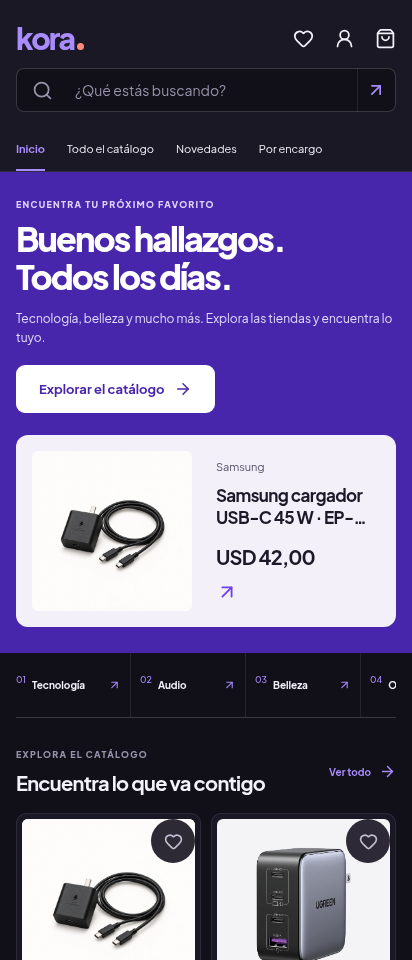
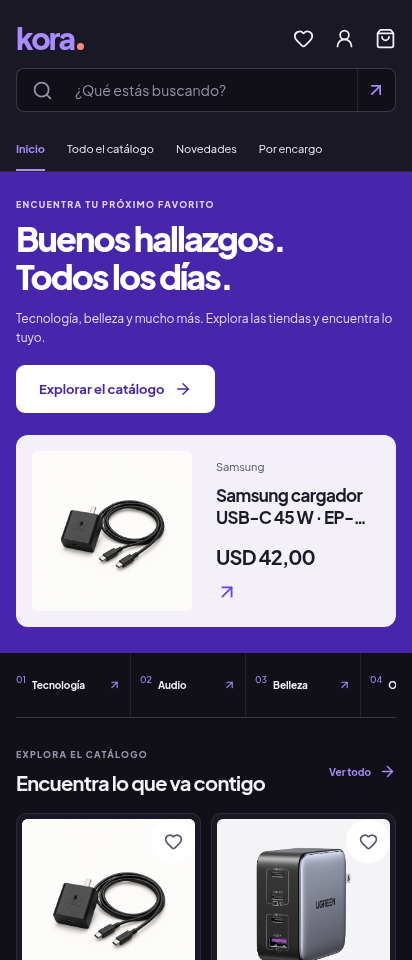
Entrega primera web comprador conectada y validada
Inicio editorial, catálogo y ficha SSR, cuenta, favoritos y carrito reales. 12 UI en build producción final, 52 core, tipos/lint monorepo y revisión independiente. Next16.4.1, guard release que excluye imágenes de exhibición y rechaza restos de dev al iniciar. Documentación y14 capturas originales. Checkout web y hosting público quedan como siguiente incremento; sin cambios Android, panel, backend o finanzas.

Changed region(s): [[0.8447, 0.8438, 0.9612, 0.9062], [0.3495, 0.8438, 0.466, 0.9062]]

diff --git a/tests/app-e2e/storefront/storefront.spec.ts b/tests/app-e2e/storefront/storefront.spec.ts
@@ -56,7 +56,9 @@ test('búsqueda, filtros, orden y paginación mantienen URL compartible', async 
   expect(nums).toEqual([...nums].sort((a, b) => a - b));
   await page.goto('/buscar?availability=on_order');
   await expect(page.getByTestId('product-card').first()).toBeVisible();
-  expect((await page.locator('.availability:visible').allTextContents()).every((t) => t === 'Por encargo')).toBe(true);
+  await expect(page.locator('.product-card:visible .availability').filter({ hasText: /^Por encargo$/ })).toHaveCount(
+    await page.locator('.product-card:visible').count(),
+  );
   await page.goto('/buscar');
   await page.getByRole('link', { name: 'Siguiente' }).click();
   await expect(page).toHaveURL(/page=2/);

diff --git a/apps/storefront/src/app/globals.css b/apps/storefront/src/app/globals.css
@@ -1516,3 +1516,11 @@ legend {
     padding-block: 26px;
   }
 }
+/* Photo actions keep a quiet, light backing in both themes, rather than a dark disc over the product. */
+.product-card .favorite {
+  background: rgba(255, 255, 255, 0.94);
+  color: #55516a;
+}
+.product-card .favorite[aria-pressed='true'] {
+  color: #6d42e8;
+}

diff --git a/docs/WEB_COMPRADOR.md b/docs/WEB_COMPRADOR.md
@@ -1,0 +1,96 @@
+# Web comprador de HAYAZGO · primera entrega
+
+**30 de octubre de 2026.** Implementación real dentro del mismo monorepo, no maqueta. Nueva aplicación `apps/storefront`, Next.js16.4.1; comparte API, reglas y tokens con Android y panel. Marca provisional tomada de `config/brand.json` (actualmente Kora); no se ha iniciado un cambio de nombre.
+
+## Qué funciona
+
+- **Inicio:** editorial Electric Violet, producto con foto/precio/destino real, categorías, comparación inicial, colecciones y tiendas de `home_feed`. Portada finita; muestra acotada de tiendas. No inventa promociones o testimonios.
+- **Buscar:** búsqueda, categoría, colección, tienda, disponibilidad, rango de precios, orden y paginación. Parámetros en URL, enlaces compartibles y regreso con contexto. Escritorio con filtros laterales; móvil los pliega y muestra cuántos están activos. El backend usa **slugs** para categoría/tienda/colección.
+- **Ficha `/p/[slug]`:** fotografías, variantes activas, precio por variante, cantidad, disponibilidad, descripción, vendedor, relacionados y agregar al carrito. Selecciona inicialmente una variante con existencias; diferencia opción agotada. El servidor valida existencias/importe al agregar.
+- **Cuenta:** login real de Supabase con la cuenta existente, cierre de sesión y regreso seguro al destino interno. La misma cuenta sirve en app y web, pero la sesión de cada dispositivo/origen es independiente.
+- **Favoritos:** guardar/quitar y consultar lo persistido en backend; reintento ante error. Se ven desde otro navegador o la app con la misma cuenta.
+- **Carrito:** carga por RPC, cantidades, eliminación confirmada, errores recuperables e importe de líneas/subtotal calculados por servidor. Persiste al recargar y en otro navegador. No calcula precios o tasas en el cliente.
+- Carga de consultas privadas, vacío, error/reintento,404 real para ficha inexistente, teclado/foco, movimiento reducido y adaptación320/412/escritorio. Catálogo y ficha públicos llegan en HTML aun sin JS.
+
+**No es todavía la web comercial completa.** Checkout/pago/pedidos web, direcciones, registro/recuperación y herramientas de vendedor siguen siendo incrementos posteriores. El carrito explica que se puede continuar la compra en la app con la misma cuenta; no hay botón que finja finalizar la compra web. Esta entrega no modifica ni publica Android.
+
+## Arquitectura y aislamiento
+
+| Pieza | Responsabilidad |
+|---|---|
+| `apps/storefront` ·3200 | Web de compradores |
+| `apps/admin` ·3100 | Panel existente, separado |
+| `apps/mobile` | Android/Expo existente |
+| `packages/api`, `core`, `design-tokens` | Contratos RPC, reglas compartidas y lenguaje visual |
+| Supabase Marketplace | Catálogo, cuentas, favoritos, carrito y autorización real por RLS |
+
+SSR crea un cliente **anónimo nuevo por lectura**, sin cookies/tokens del navegador y sin caché de respuestas privadas. Reutiliza `createKoraClient`, incluido el rechazo de service role. Sesión sólo en navegador; cachés privadas con identidad y limpieza al cambiar cuenta, ficha/controles aislados por producto+comprador. Login rechaza destinos externos, `//` y barras inversas. El frontend nunca concede permisos. No se ha cambiado RLS, SQL, datos remotos, pagos ni reglas comerciales.
+
+## Imágenes
+
+Se reutiliza el registro y los archivos de exhibición de la app mediante `tools/storefront/prepare-assets.mjs`, sin importar React Native ni duplicar asociaciones manuales. Verifica SHA256 y conserva producto+originalPath+variante+`is_demo`, procedencia y avisos bajo demanda. Son **las imágenes de exhibición ya usadas en la app**, incluidas generaciones y referencias de fabricante; no se ha acreditado un catálogo fotográfico comercial definitivo ni licencias nuevas.
+
+Opt-in `STOREFRONT_PRIVATE_PREVIEW=1`, sólo desarrollo loopback y backend aprobado (local54321 o Marketplace `mimnotafmfasvwrclxan`). No alias por parecido entre IDs locales y remotos. Algunas fixtures locales antiguas tienen identidad distinta y conservan sus imágenes; por ello las capturas fotográficas finales se hicieron con el Marketplace correcto, **anónimo y sólo lectura**. Todas las operaciones de cuenta/favoritos/carrito se probaron exclusivamente contra backend local.
+
+`build` ejecuta preparador **`--release`**, que retira archivos y metadata de exhibición independientemente de `.env.local`. `verify:release` exige registro vacío, ausencia de carpeta pública y ausencia de referencias en bundles servidor/cliente. `start` exige primero esta verificación: se comprobó que rechaza iniciar con recursos privados sobrantes de desarrollo. `typecheck` sólo asegura tipos de un registro inicial vacío si falta; no regenera recursos ni contamina builds. No publicar el servidor de desarrollo: `noindex` evita indexación, **no es control de acceso**.
+
+## Ejecutar y probar
+
+Desde la raíz, con las dependencias del workspace:
+
+```bash
+pnpm install --frozen-lockfile
+cp apps/storefront/.env.example apps/storefront/.env.local
+# Configurar URL y anon pública del backend elegido en ese archivo ignorado.
+# Nunca usar service_role, token de gestión, contraseñas o credenciales de proveedores.
+pnpm --filter @kora/storefront dev
+# http://127.0.0.1:3200
+```
+
+Para conectar al Marketplace de la app: usar las **dos variables públicas** de `apps/mobile/eas.json` → `build.preview.env`, como `NEXT_PUBLIC_SUPABASE_URL` y `NEXT_PUBLIC_SUPABASE_ANON_KEY`; no hace falta acceso administrativo. El proyecto prohibido nunca se utiliza. El opt-in de imágenes es únicamente para evaluación local. En esta nube Node24 requiere `NODE_USE_ENV_PROXY=1` para SSR remoto; conservar proxy y CA, sin desactivar TLS. No es una exigencia del hosting normal.
+
+Pruebas mutadoras **sólo local**:
+
+```bash
+pnpm stack:start             # no resetear si ya hay una base local en uso
+# .env.local del storefront debe usar el gateway local y su anon de .local/keys.env.
+pnpm --filter @kora/storefront build
+pnpm --filter @kora/storefront verify:release
+pnpm --filter @kora/storefront start
+# En otra terminal:
+PW_CHROMIUM_PATH=/usr/bin/chromium pnpm test:storefront
+```
+
+`PW_CHROMIUM_PATH` sólo si hace falta seleccionar un Chromium instalado. La suite aborta peticiones del contexto principal hacia el Marketplace compartido; los fixtures rechazan DB no local. No ejecutar pruebas de compra sobre el backend remoto.
+
+## Evidencia y control de calidad
+
+[Capturas originales y manifiesto](capturas/web-comprador-2026-10-30/manifest.json):14PNG del catálogo real anónimo, Inicio1440/412/320 y Buscar/ficha1440/320, ambos temas. No son pruebas Android ni fotos físicas. Al ser una web nueva no existe un «antes» equivalente: no se fabricó comparación. Primera fila de comparación en Inicio: y739,7 en1440;813,3 en412;832,3 en320; viewport960 de alto. La apertura ya contiene un producto/precio navegable antes del catálogo. Es una primera base, no una promesa de conversión.
+
+- Especialista de arquitectura de sólo lectura: recomendó web Next separada, SSR público, API/RLS compartidos y no trasladar la SPA de pruebas como web definitiva.
+- Auditor independiente: ronda1 **CAMBIOS OBLIGATORIOS** por exclusión release insuficiente, fotos comprobadas contra fixtures equivocadas y altura/categorías. Corregido con release explícito, evaluación con Marketplace correcto y tira móvil64px/desktop integrada.
+- Ronda2 **APROBADO para incremento local**:12capturas y12navegaciones de categorías/tiendas/colecciones, sin desbordamientos ni erroresJS. Revisó aislamiento, variantes, `Object.hasOwn`, reintento de favoritos y fuentes. Cierre focalizado verificó compactación y Next16.4.1 sin overlay de desarrollo. No sustituye revisión de Oliver ni autoriza un lanzamiento público.
+- Se consultaron el enrutador Product Design y la skill `oliver-design-direction`; implementación basada en la direcciónC existente, no una nueva ideación ni una auditoría Product Design ficticia. Reglas aplicadas: densidad contextual, jerarquía comercial, complejidad progresiva, fotos protagonistas y teclado/reflow reales.
+
+## Pruebas finales ejecutadas
+
+| Verificación | Resultado y entorno |
+|---|---|
+| UI específicas | **12/12** dev y **12/12** buildproducción final; misma suite, no24casos distintos |
+| Persistencia | SQL local + segundo contexto de navegador, favoritos/carrito; cierre/cambio de cuenta |
+| Errores | Transporte abortado al agregar no muestra éxito; reintento persiste; vacío y404 tienen salida |
+| Adaptación |320/412/1440 claro/oscuro, sin overflow/JSerror; teclado y movimiento reducido |
+| SSR | Inicio/ficha visibles sinJS y404 de recurso inexistente |
+| Monorepo | `pnpm typecheck`, `pnpm lint`,52core aprobados |
+| Build/aislamiento | Next16.4.1 compila; `verify:release` aprueba vacío y también después de tipos; `start` rechaza92registros privados |
+| Revisión visual |14PNG originales finales archivados; revisión independiente12capturas/12recorridos y cierre móvil |
+
+Logs ignorados en `.local/storefront-20261030/`: `tests-release-final.log`(12/12), `build-final-photo-action.log`, `typecheck-final-all.log`, `lint-final-all.log`, `core.log`, `release-final.log` y `guard-negative.log`. Las capturas de datos remotos no son prueba de mutaciones remotas. No se verificó este sitio en navegador físico del Samsung ni se instaló otra app.
+
+## Seguridad y lanzamiento
+
+Se detectaron tres avisos Next16.4.0 (GHSA-2464-fhr4-w9xw, GHSA-p3m5-59mp-jv5r, GHSA-673q-mjm6-r5xr). Parche aplicado **sólo a storefront**, Next/eslint-config-next16.4.1. `pnpm audit --prod` posterior ya atribuye esos avisos exclusivamente al panel previo `apps__admin>next`, no a esta web. No afirmar que todo el workspace carece de advisories; el panel requiere su parche separado y pruebas propias antes de otro despliegue suyo.
+
+Esta entrega no tiene hosting público ni dominio oficial. El entorno cloud sirve para desarrollar; el lanzamiento requiere alojamiento Next permanente y HTTPS, dominio, redirects de Auth, revisión de sesiones/políticas/CSP, contenido comercial/fotos con derechos y protección de cualquier URL privada de evaluación. No utilizar por accidente el workflow de despliegue del panel. `noindex` permanece activo; habilitar indexación/metadata canónica/sitemap sólo al preparar lanzamiento aprobado.
+
+**Próxima intervención exacta:** checkout web progresivo, reutilizando RPC `checkout_preview`/`place_order`, direcciones y opciones reales, idempotencia y recuperación de la confirmación ya corregida en móvil. Luego Pago con cotización y estado de verificación reales y Mis pedidos; antes de la web pública cerrar registro/recuperación, SEO y despliegue protegido. Sin cálculos de cliente ni gastos/compras remotos de prueba.

diff --git a/docs/ESTADO_ACTUAL.md b/docs/ESTADO_ACTUAL.md
@@ -4,11 +4,15 @@
 > cerrar un módulo y antes de ceder el turno). Si algo de aquí no coincide con el repositorio o con los
 > servicios, gana lo que compruebes y corriges este archivo.
 
-## Trabajo en curso · web comprador, 30 de octubre
+## Web comprador · primera entrega terminada, 30 de octubre
 
-Oliver autorizó construir la web integrada. Nueva pieza `apps/storefront` (Next16, puerto3200), separada del panel y de Expo, comparte `@kora/api`, `@kora/core` y tokens. Primera entrega: Inicio editorial, Buscar con URL/filtros/paginación, fichas por slug con variantes, login de la misma cuenta, favoritos y carrito por RPC reales. Catálogo público SSR anónimo por petición, privado sólo navegador/RLS. Checkout web/registro/recuperación aún fuera de este incremento; carrito explica continuación en app, sin CTA ficticia. No confundir web local con sitio publicado ni sesión compartida automáticamente entre dispositivos.
+Oliver autorizó comenzar la web integrada. `apps/storefront` Next16.4.1, puerto3200, separada de panel/Expo; comparte API/core/tokens/backend. InicioC web, Buscar con URL/filtros/paginación, fichas/variantes, login de misma cuenta, favoritos y carrito por RPC persistidos. Sesión por dispositivo/origen independiente; SSR público anónimo por petición y caché privada aislada por comprador. [Guía y límites](WEB_COMPRADOR.md).
 
-Checkpoint2: 12/12 UI locales aprobadas (sesión real, SQL y segundo navegador, filtros, estados/errores, SSR sinJS y404, teclado/320/412/1440 ambos temas). Auditor independiente rechazó y revisó correcciones; APROBADO para incremento local. Capturas con Marketplace anónimo read-only, sin operaciones remotas. Next de storefront corregido16.4.0→16.4.1 por tres avisos de seguridad; audit ya los atribuye únicamente al panel anterior, no a esta web. Falta build/exclusión release y repetir12 UI en producción local. Adaptador local reutiliza manifest/recursos existentes con identidad/ruta/variante/is_demo y SHA; sólo backend local54321 o Marketplace aprobado y opt-in, desarrollo ligado127.0.0.1. Build producción retira fotos/metadata de exhibición. Nada de Android, OTA, panel, backend remoto, SQL o finanzas modificado. **Próxima acción:** terminar pruebas UI/aislamiento y capturas320/412/escritorio claro/oscuro, revisión independiente, build y documentación `WEB_COMPRADOR.md`. No publicar sitio público en este bloque.
+**Validación final:**12/12 UI de build producción (también12/12dev),52unitariascore, tipos/lint monorepo y build aprobados. Estado/error,404, SSRsinJS, teclado/movimiento reducido,320/412/1440 claro/oscuro y persistencia SQL+segundo navegador. Auditor independiente2rondas: CAMBIOS OBLIGATORIOS corregidos → APROBADO para incremento local;14PNG originales ySHA archivados. Catálogo Marketplace observado sólo anónimo/lectura, operaciones mutadoras sólo stack local. No cambios de Supabase, Android/OTA, finanzas o panel.
+
+**Fotos/seguridad:** adaptador reutiliza recursos existentes poridentidad/ruta/variante/is_demo yhash; opt-in sólo desarrollo loopback/backend aprobado. Buildrelease excluye registro/archivos/referencias comprobados; tipos no regeneran assets; `start` exige verificación y rechaza recursos privados sobrantes. Next storefront parcheado16.4.1; tres advisories previos sólo permanecen en panel anterior, bloque separado. No hosting público. Servidor de evaluación local puede usar Marketplace con Nodeproxy y opt-in; antes de suite mutadora volver a `.env.local` del backend local. Recursos de desarrollo no son un artefacto de distribución.
+
+**Próxima acción exacta:** implementar checkout web progresivo reutilizando checkout_preview/place_order, direcciones/opciones reales e idempotencia/recuperación existentes; después Pago/Mis pedidos. Registro/recuperación, SEO y alojamiento protegido/HTTPS pendientes para lanzamiento. El carrito actual explica continuación en la app; no botón de compra web ficticio. No rehacer storefront ni rediagnosticar backend.
 
 ## Corrección publicada · confirmación de compra, 29 de octubre
 

diff --git a/docs/HISTORIAL_AGENTES.md b/docs/HISTORIAL_AGENTES.md
@@ -392,6 +392,15 @@ Publicación real: EAS40051620927 Success/fuente7f4c556; guardAPK5 Success01:51:
 - Último commit: `<hash>`.
 ```
 
+## 30 de octubre de 2026 · Web comprador, primera implementación
+
+- Oliver autorizó comenzar web en el mismo entorno. Rama sincronizada, raíz único integrador; especialista de arquitectura y auditor independiente sólo lectura/pruebas ignoradas.
+- `apps/storefront` Next separado: InicioC adaptado web, Buscar URL/filtros/contexto, fichas, Supabase login/cierre, favoritos y carrito reales. Comparte API/core/tokens; SSR público anónimo por petición y caché/controles privados aislados por comprador. Sin checkout web ficticio: continuación en app explícita.
+- Checkpoints `444a516` y `55c3d3a` con push. Auditor ronda1 CAMBIOS OBLIGATORIOS (release sin exclusión explícita, imágenes con fixtures de identidad distinta, categorías/altura); corregidos. Ronda2 APROBADO para incremento local,12capturas/12recorridos y cierre320claro/oscuro.14PNG originales finales conSHA en `docs/capturas/web-comprador-2026-10-30`.
+- Lectura de catálogo Marketplace real sólo anónima; mutaciones de prueba sólo local.12UI dev y12UI del buildproducción final,52core, tipos/lint monorepo y build aprobados; release sinregistro/archivos/referencias y bloqueo de start ante restos de desarrollo comprobados. Favorito discreto sobre foto en ambos temas. Primer intento de producción11/12 por assertion que confundía disponibilidad con badge de muestra; se corrigió el selector conservando el badge.
+- Next16.4.0 mostró tres avisos críticos/alto; parche preciso a16.4.1 sólo storefront, sin upgrade general. Auditoría posterior los conserva sólo en panel anterior. Buildrelease verifica ausencia de archivos/metadata/referencias de exhibición. Tipos dejaron de regenerar assets para evitar contaminar una compilación concurrente; build se repitió en secuencia.
+- Sin cambios en Android/OTA, nativo/iOS, backend remoto, SQL o reglas financieras. Sin hosting público. Próximo: checkout web progresivo con RPC/idempotencia/recuperación existentes, después Pago/Mis pedidos y preparación de despliegue protegido. [Guía](WEB_COMPRADOR.md).
+
 ## Relevos
 
 ### 2026-10-11 18:51Z · Codex cloud · Oliver · preview publicado y checkpoint validación Android

diff --git a/docs/PENDIENTES.md b/docs/PENDIENTES.md
@@ -1,5 +1,13 @@
 # Pendientes de Kora
 
+## WEB-COMPRADOR · primer incremento y siguiente bloque, 30oct2026
+
+**Primera base desarrollada** en `apps/storefront`, backend/API/core/tokens compartidos, separada de Android/panel. Inicio/Buscar/ficha SSR, login real, favoritos y carrito persistidos por RPC; pruebas de mutación sólo local y capturas Marketplace sólo lectura. Ver [WEB_COMPRADOR.md](WEB_COMPRADOR.md). No repetir creación de proyecto ni traslado de datos. Sin hosting público ni OTA de este bloque.
+
+**Próxima tarea exacta:** checkout web progresivo (dirección/entrega → plan → revisión, orden conforme reglasUX ya aplicadas), `checkout_preview`/`place_order` y recuperación/idempotencia de confirmación existente; después Pago y Mis pedidos. Mantener estados de anticipo/cuotas y precios/tasas calculados sólo por servidor. Registro/recuperación, SEO de lanzamiento y alojamiento HTTPS con acceso protegido son dependencias de publicación pública. No confundir `noindex` con privacidad; recursos de exhibición no van al buildrelease.
+
+**Seguridad acotada:** storefront ya usa Next/eslint-config-next16.4.1 para tres avisos sobre16.4.0. Auditoría posterior sigue señalando `apps__admin>next`; parche del panel anterior requiere su bloque separado/pruebas antes de volver a desplegar ese panel. No cambiarlo automáticamente en esta entrega web.
+
 ## Compra · 29oct2026
 
 - Reporte de blanco al finalizar en Samsung: se corrigió la pérdida de continuidad por respuesta perdida y la navegación con resultado incompleto. 42 UI finales/11 unitarias/52 core, tipos/lint/Hermes y auditoría independiente aprobados; OTA preview EAS40999854509 publicada con guard APK5; ID `01a18af2-bd5c-7ec1-9e59-9b458a7e11f0`. Observación EAS41000103125 confirma última compatible; validación Samsung pendiente. [Detalle](CORRECCION_CONFIRMACION_COMPRA_2026-10-29.md). No afirmar reproducción literal o recepción nativa.

diff --git a/docs/ARQUITECTURA.md b/docs/ARQUITECTURA.md
@@ -6,6 +6,7 @@
 |---|---|---|
 | Monorepo | pnpm 10.28, Node 22, TypeScript 5.9 (la app, 6.0), vitest 3 | raíz (`apps/*`, `packages/*`, `tests/*`, `tools/*`) |
 | App móvil (compradores + Mi tienda) | Expo SDK 57, React Native 0.86, expo-router, React Query 5, Reanimated 4 | `apps/mobile` (también exporta a web para las pruebas) |
+| Web de compradores | Next.js16.4.1, SSR público y sesión cliente, API/core/tokens compartidos | `apps/storefront` (puerto3200; Inicio, Buscar, ficha, Cuenta, Favoritos y Carrito). [Alcance](WEB_COMPRADOR.md) |
 | Panel web (admin + vendedor) | Next.js 16 (App Router), Tailwind v4, React Query | `apps/admin` (puerto 3100; `/admin` y `/vendedor`) |
 | Backend | Supabase: Postgres, Auth (GoTrue), PostgREST, Storage, Edge Functions (Deno) | `supabase/migrations`, `supabase/functions` |
 | Lógica compartida | dinero exacto, planes, tasas, pagos, sesión, errores en español, importador | `packages/core` |

diff --git a/docs/ENTORNO.md b/docs/ENTORNO.md
@@ -100,6 +100,10 @@ desde `.local/ios-personal`. Supabase de pruebas existente, APNs/Associated Doma
 Sin EAS Build iOS, TestFlight, ad hoc o Expo Go; firma gratis 7 días. La nube Linux solo verificó configuración,
 prebuild sin Pods y exportación iOS; compilación/firma/simulador/iPhone pendientes del Mac.
 
+## 4 ter. Web de compradores
+
+Nueva aplicación `apps/storefront`, puerto3200. Comparte backend/cuentas con la app, sesión independiente por navegador. `pnpm --filter @kora/storefront dev`; configurar `.env.local` desde `.env.example` con URL+anon pública, sin service role. Build: `pnpm --filter @kora/storefront build && pnpm --filter @kora/storefront verify:release`. No mezclar su despliegue con el panel. Guía, pruebas locales, política de fotos/SSR y límites: [WEB_COMPRADOR.md](WEB_COMPRADOR.md). No hay hosting público en esta entrega.
+
 ## 5. Panel web (administración y vendedores)
 
 ```bash
